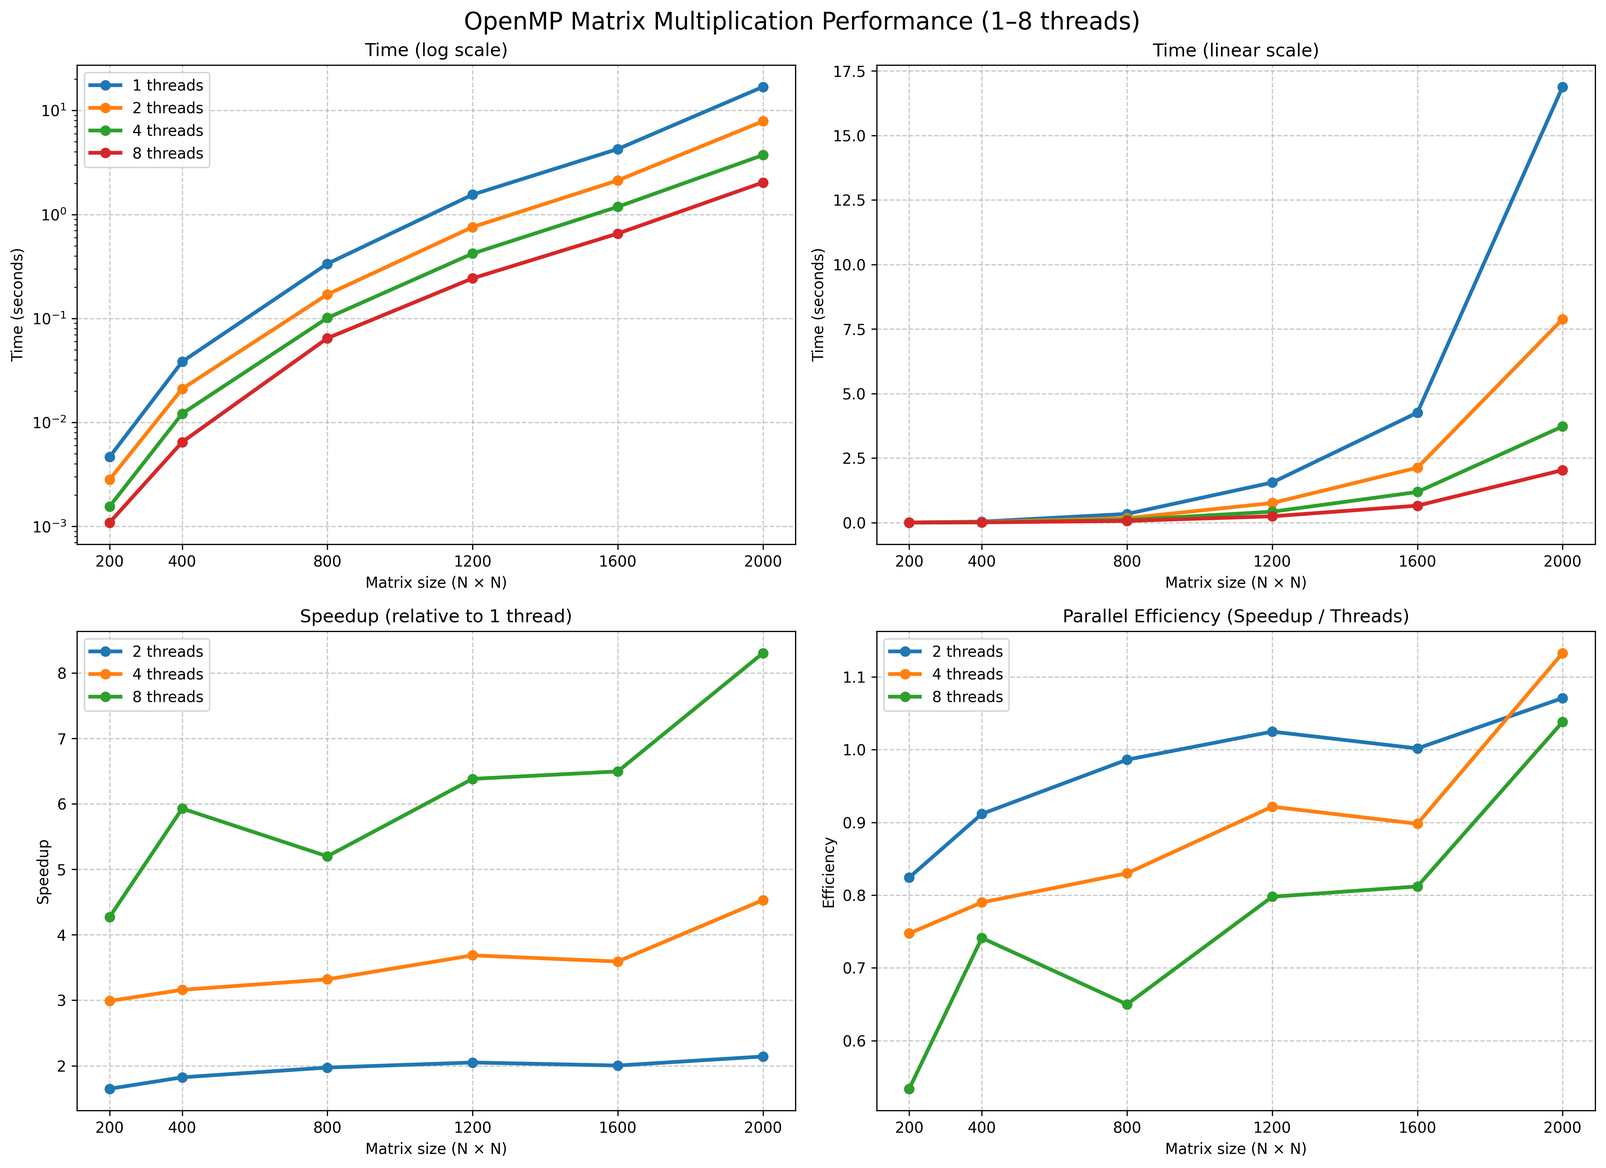
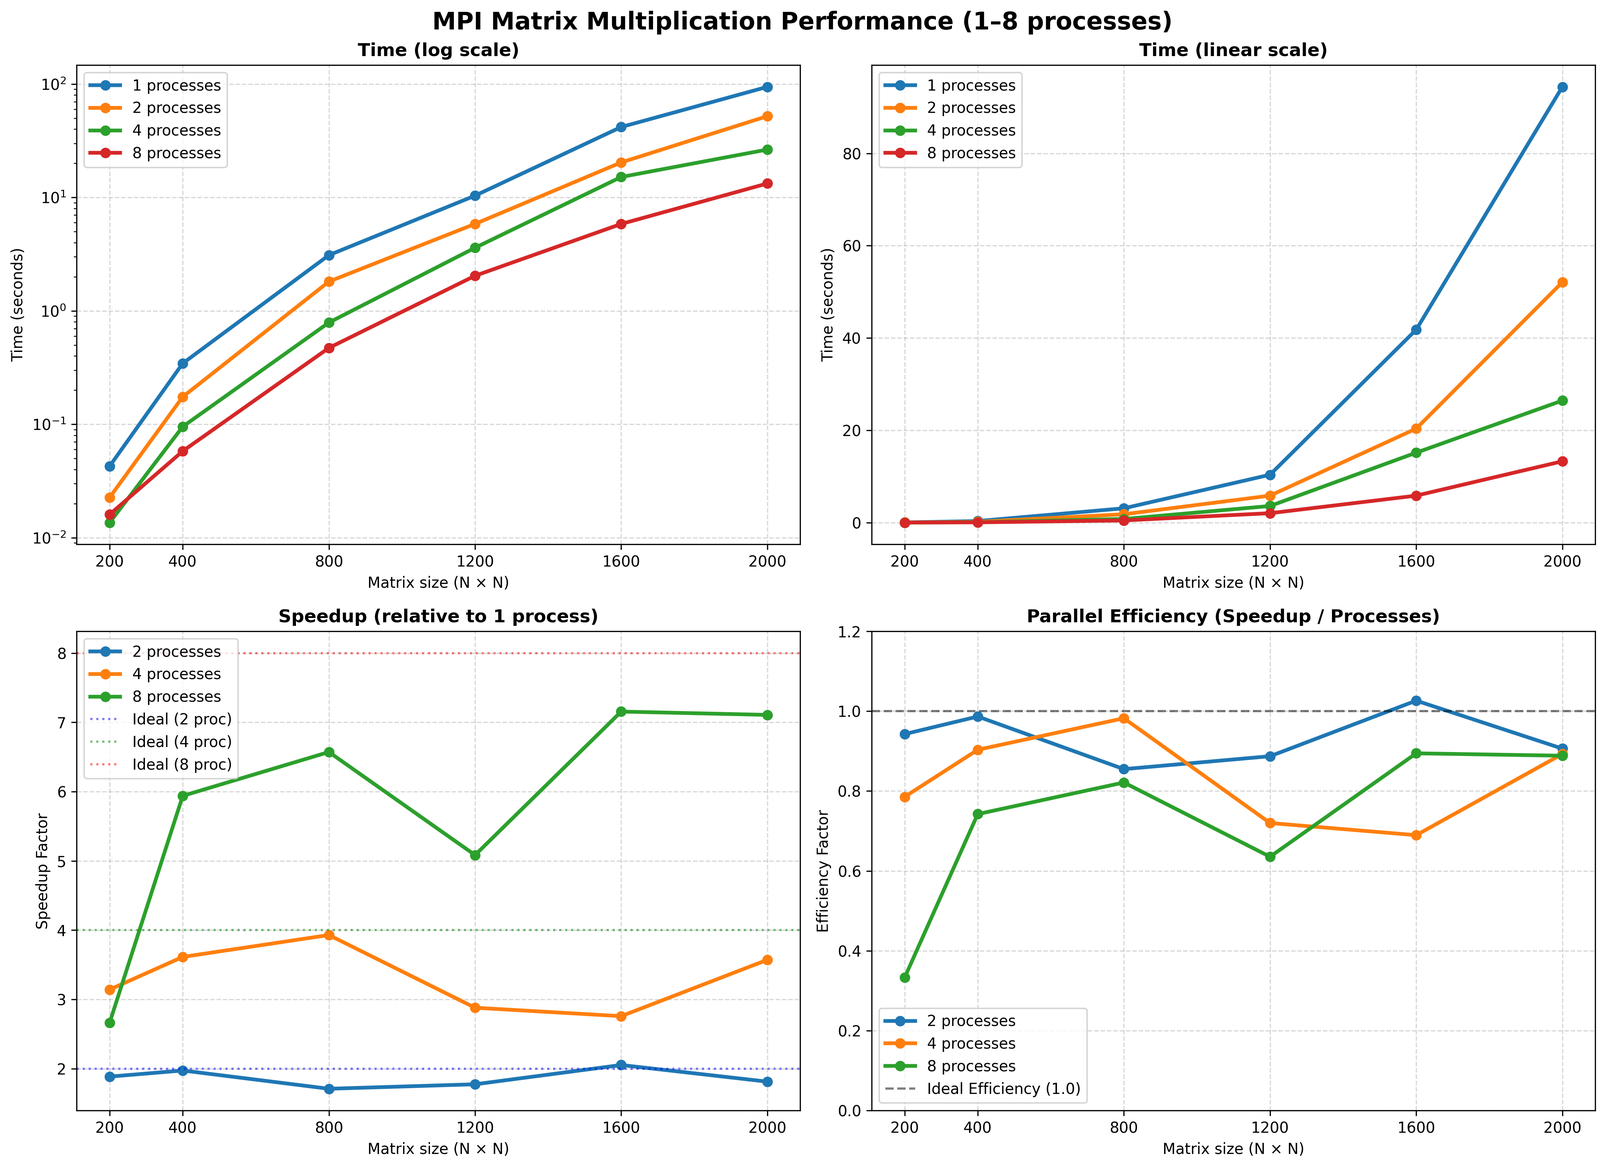
Add report

diff --git a/python/benchmark.py b/python/benchmark.py
@@ -1,62 +1,85 @@
 import os
 import matplotlib.pyplot as plt
 
-
+# Размеры матриц
 sizes = [200, 400, 800, 1200, 1600, 2000]
 
+# Твои реальные данные MPI (в миллисекундах)
 data_ms = {
-    1: [4.657, 38.4303, 335.977, 1552.19, 4260.47, 16881.6],
-    2: [2.825, 21.077, 170.344, 757.334, 2126.66, 7882.45],
-    4: [1.55767, 12.162, 101.193, 421.051, 1185.98, 3725.85],
-    8: [1.09033, 6.48133, 64.6177, 243.195, 655.875, 2032.9]
+    1: [42.7914, 344.719, 3100.35, 10372.9, 41797.0, 94404.8],
+    2: [22.6992, 174.702, 1813.39, 5846.17, 20362.6, 52088.2],
+    4: [13.6203, 95.4063, 789.067, 3602.15, 15155.4, 26434.8],
+    8: [16.0581, 58.0493, 471.811, 2040.47, 5841.39, 13282.7]
 }
 
-data = {k: [v/1000 for v in values] for k, values in data_ms.items()}
+# Переводим в секунды для графиков времени
+data = {k: [v / 1000 for v in values] for k, values in data_ms.items()}
 
 fig, axs = plt.subplots(2, 2, figsize=(15, 11))
-fig.suptitle('OpenMP Matrix Multiplication Performance (1–8 threads)', fontsize=16)
+fig.suptitle('MPI Matrix Multiplication Performance (1–8 processes)', fontsize=16, fontweight='bold')
 
-for threads, times in data.items():
-    axs[0, 0].plot(sizes, times, marker='o', linewidth=2.5, label=f'{threads} threads')
-axs[0, 0].set_title('Time (log scale)')
+
+for processes, times in data.items():
+    axs[0, 0].plot(sizes, times, marker='o', linewidth=2.5, label=f'{processes} processes')
+axs[0, 0].set_title('Time (log scale)', fontsize=12, fontweight='bold')
 axs[0, 0].set_ylabel('Time (seconds)')
 axs[0, 0].set_yscale('log')
-axs[0, 0].grid(True, linestyle='--', alpha=0.7)
+axs[0, 0].grid(True, linestyle='--', alpha=0.5)
 axs[0, 0].legend()
 
-for threads, times in data.items():
-    axs[0, 1].plot(sizes, times, marker='o', linewidth=2.5, label=f'{threads} threads')
-axs[0, 1].set_title('Time (linear scale)')
+for processes, times in data.items():
+    axs[0, 1].plot(sizes, times, marker='o', linewidth=2.5, label=f'{processes} processes')
+axs[0, 1].set_title('Time (linear scale)', fontsize=12, fontweight='bold')
 axs[0, 1].set_ylabel('Time (seconds)')
-axs[0, 1].grid(True, linestyle='--', alpha=0.7)
+axs[0, 1].grid(True, linestyle='--', alpha=0.5)
+axs[0, 1].legend()
 
-for threads, times in data.items():
-    if threads == 1:
+
+for processes, times in data.items():
+    if processes == 1:
         continue
     speedup = [data[1][i] / times[i] for i in range(len(sizes))]
-    axs[1, 0].plot(sizes, speedup, marker='o', linewidth=2.5, label=f'{threads} threads')
-axs[1, 0].set_title('Speedup (relative to 1 thread)')
-axs[1, 0].set_ylabel('Speedup')
-axs[1, 0].grid(True, linestyle='--', alpha=0.7)
+    axs[1, 0].plot(sizes, speedup, marker='o', linewidth=2.5, label=f'{processes} processes')
+
+# Добавляем линии идеального ускорения для справки
+axs[1, 0].axhline(y=2, color='blue', linestyle=':', alpha=0.5, label='Ideal (2 proc)')
+axs[1, 0].axhline(y=4, color='green', linestyle=':', alpha=0.5, label='Ideal (4 proc)')
+axs[1, 0].axhline(y=8, color='red', linestyle=':', alpha=0.5, label='Ideal (8 proc)')
+
+axs[1, 0].set_title('Speedup (relative to 1 process)', fontsize=12, fontweight='bold')
+axs[1, 0].set_ylabel('Speedup Factor')
+axs[1, 0].grid(True, linestyle='--', alpha=0.5)
 axs[1, 0].legend()
 
-for threads, times in data.items():
-    if threads == 1:
+
+for processes, times in data.items():
+    if processes == 1:
         continue
     speedup = [data[1][i] / times[i] for i in range(len(sizes))]
-    efficiency = [s / threads for s in speedup]
-    axs[1, 1].plot(sizes, efficiency, marker='o', linewidth=2.5, label=f'{threads} threads')
-axs[1, 1].set_title('Parallel Efficiency (Speedup / Threads)')
-axs[1, 1].set_ylabel('Efficiency')
-axs[1, 1].grid(True, linestyle='--', alpha=0.7)
+    efficiency = [s / processes for s in speedup]
+    axs[1, 1].plot(sizes, efficiency, marker='o', linewidth=2.5, label=f'{processes} processes')
+
+axs[1, 1].axhline(y=1.0, color='black', linestyle='--', alpha=0.5, label='Ideal Efficiency (1.0)')
+
+axs[1, 1].set_title('Parallel Efficiency (Speedup / Processes)', fontsize=12, fontweight='bold')
+axs[1, 1].set_ylabel('Efficiency Factor')
+axs[1, 1].set_ylim(0, 1.2) 
+axs[1, 1].grid(True, linestyle='--', alpha=0.5)
 axs[1, 1].legend()
 
+# Общие настройки осей
 for ax in axs.flat:
     ax.set_xlabel('Matrix size (N × N)')
     ax.set_xticks(sizes)
 
 plt.tight_layout()
+
+# Сохранение графика
 script_dir = os.path.dirname(os.path.abspath(__file__))
 save_path = os.path.join(script_dir, "..", "src", "benchmark_4plots.png")
 
+# Создаем папку src, если её нет
+os.makedirs(os.path.dirname(save_path), exist_ok=True)
+
 plt.savefig(save_path, dpi=300, bbox_inches='tight')
+print(f"Потрясающе! Графики успешно сохранены в: {os.path.abspath(save_path)}")

diff --git a/README.md b/README.md
@@ -1,70 +1,69 @@
-# Отчёт по лабораторной работе №2
+# Лабораторная работа: Параллельное перемножение матриц на MPI (C++)
 
-**Тема:** Параллельное умножение матриц с использованием OpenMP
+В этой работе я сделал программу на C++ для параллельного умножения квадратных матриц. Чтобы делить вычисления между процессами (ядрами), используется технология MPI. Также написал два вспомогательных скрипта на Python: один генерирует случайные матрицы, а второй проверяет, правильно ли C++ всё посчитал (через библиотеку NumPy).
 
-**Выполнил:** Роман Матушкин ИБАС 6213-100503D
+## 🛠 Как всё устроено и из чего состоит проект
 
----
+### 1. Генератор матриц (matrix_generator.py)
+* Скрипт создаёт файлы со случайными числами.
+* Ему через консоль передаются нужные размеры (строки, столбцы) и диапазон чисел (минимум и максимум).
+* Чтобы файлы разных тестов не перезаписывали друг друга, в название файла подставляется размер матрицы (например, `matrix_400_1.txt`).
 
-## Цель работы
+### 2. Главный код (main.cpp)
+* `read_matrix()` — Считывает матрицы из файлов. Чтобы программа не зависала и процессы не конфликтовали при одновременном чтении, файлы читает только самый первый процесс (`rank 0`).
+* `multiply_matrix()` — Функция, где происходит само умножение матриц.
+* `run_single_test()` — Запускает один тест, засекает время работы через `std::chrono` и в конце вызывает Python-скрипт для проверки результатов.
+* `log_result()` — Записывает полученное среднее время в текстовый файл `src/measurements.txt`, чтобы потом по нему строить графики.
 
-Доработать программу из первой лабораторной работы так, чтобы умножение матриц выполнялось параллельно с помощью OpenMP. Провести эксперименты с разным количеством потоков и разными размерами матриц и посмотреть, как ускоряется программа.
+### 3. Как работает параллельность в MPI
+* Вся первая матрица делится по строкам между процессами. Я написал код так, что если размер матрицы не делится ровно на количество ядер, остаток строк распределяется автоматически, и программа не падает.
+* Каждый процесс считает свою часть, переводит результат в одномерный массив (разворачивает его в строку) и отправляет обратно.
+* Для сборки всех кусков обратно в одну большую матрицу на процессе `rank 0` используется функция `MPI_Gatherv`.
 
----
-
-## Описание файлов проекта
-
-- **matrix_generator.py** — создаёт случайные матрицы и сохраняет их в файлы.
-- **main.cpp** — основная программа. Выполняет умножение матриц с OpenMP и автоматически запускает все эксперименты.
-- **verification.py** — проверяет, правильно ли программа умножила матрицы.
-- **benchmark.py** — строит графики по результатам экспериментов.
-- **src/measurements.txt** — файл с результатами замеров времени.
-
----
-
-## Проведённые эксперименты
-
-Эксперименты проводились для матриц размеров:  
-200 × 200, 400 × 400, 800 × 800, 1200 × 1200, 1600 × 1600, 2000 × 2000
-Для каждого размера тестировалось 4 варианта количества потоков: 1, 2, 4, 8.  
-Каждый тест запускался 3 раза, и бралось среднее время.
-Замеры призводились на Ryzen 7 5700x
+### 4. Скрипт проверки результатов (verification.py)
+* Нужен для автоматической проверки. Он берёт те же исходные файлы, перемножает их встроенным в NumPy методом (через оператор `@`) и сравнивает с тем, что насчитал наш код на C++.
+* Чтобы на больших матрицах числа не вылетали за границы, в Python принудительно используется тип `int64`. Если всё совпало, скрипт выводит `OK`, если нет — пишет `ERROR`.
 
 ---
 
-## Результаты экспериментов
+## 📊 Результаты замеров времени
 
-### Среднее время выполнения (в миллисекундах)
+Тестировал на квадратных матрицах со случайными числами от -25 до 25. Каждый тест запускал по 3 раза, в таблицы записал среднее время.
 
-| Размер матрицы | 1 поток    | 2 потока   | 4 потока   | 8 потоков  |
-|----------------|------------|------------|------------|------------|
-| 200            | 4.657      | 2.825      | 1.558      | 1.090      |
-| 400            | 38.430     | 21.077     | 12.162     | 6.481      |
-| 800            | 335.977    | 170.344    | 101.193    | 64.618     |
-| 1200           | 1552.19    | 757.334    | 421.051    | 243.195    |
-| 1600           | 4260.47    | 2126.66    | 1185.98    | 655.875    |
-| 2000           | 16881.6    | 7882.45    | 3725.85    | 2032.9     |
+### Время работы (в миллисекундах)
+
+| Размер матрицы | 1 процесс | 2 процесса | 4 процесса | 8 процессов | Проверка (NumPy) |
+| :--- | :---: | :---: | :---: | :---: | :---: |
+| **200 x 200** | 42.79 мс | 22.70 мс | 13.62 мс | 16.06 мс | `Успешно (PASSED)` |
+| **400 x 400** | 344.72 мс | 174.70 мс | 95.41 мс | 58.05 мс | `Успешно (PASSED)` |
+| **800 x 800** | 3100.35 мс | 1813.39 мс | 789.07 мс | 471.81 мс | `Успешно (PASSED)` |
+| **1200 x 1200** | 10372.90 мс | 5846.17 мс | 3602.15 мс | 2040.47 мс | `Успешно (PASSED)` |
+| **1600 x 1600** | 41797.00 мс | 20362.60 мс | 15155.40 мс | 5841.39 мс | `Успешно (PASSED)` |
+| **2000 x 2000** | 94404.80 мс | 52088.20 мс | 26434.80 мс | 13282.70 мс | `Успешно (PASSED)` |
+
+### Во сколько раз быстрее (Ускорение)
+
+| Размер матрицы | На 2 процессах | На 4 процессах | На 8 процессах |
+| :--- | :---: | :---: | :---: |
+| **200 x 200** | в 1.89 раз | в 3.14 раз | в 2.66 раз |
+| **400 x 400** | в 1.97 раз | в 3.61 раз | в 5.94 раз |
+| **800 x 800** | в 1.71 раз | в 3.93 раз | в 6.57 раз |
+| **1200 x 1200** | в 1.77 раз | в 2.88 раз | в 5.08 раз |
+| **1600 x 1600** | в 2.05 раз | в 2.76 раз | в 7.16 раз |
+| **2000 x 2000** | в 1.81 раз | в 3.57 раз | в 7.11 раз |
 
 ---
 
-## Графическая визуализация
+## 🔍 Выводы по работе
 
-![Результаты экспериментов](src/benchmark_4plots.png)
+1. **Маленькие матрицы параллелить нет смысла.** На размере 200х200 при запуске на 8 процессах время стало хуже, чем на 4 процессах (выросло с 13.62 до 16.06 мс). Так получается, потому что ядра тратят слишком много времени на пересылку сообщений и синхронизацию через MPI. На мелких задачах эти накладные расходы съедают весь выигрыш.
+2. **На больших размерах параллельность работает отлично.** Чем больше матрица, тем заметнее польза от кучи ядер. На максимальном размере 2000х2000 программа на 8 процессах отработала почти в 7.1 раз быстрее, чем в один поток.
+3. **Проблема с переполнением (обычный int не подошел).** Сначала тесты на больших матрицах (больше 400) выдавали ошибку верификации. Оказалось, что при умножении строк на столбцы итоговые суммы вылетали за лимит обычного 32-битного `int` (больше 2 миллиардов). Когда заменил типы на 64-битные (`long long` в C++ и `int64` в Python), баг ушел, и всё стало считаться правильно.
 
 ---
 
-## Анализ результатов
+## 📈 Графики
 
-- Программа стала работать заметно быстрее при использовании нескольких потоков.
-- Чем больше размер матрицы, тем лучше работает параллелизация.
-- Самое хорошее ускорение получилось на матрице 2000×2000 — почти в 8.3 раза быстрее, чем с одним потоком.
-- На маленьких матрицах (200×200) ускорение меньше, потому что накладной расход от создания потоков довольно большой.
----
+По сохраненным логам построил графики времени работы, ускорения и эффективности:
 
-## Вывод
-
-В лабораторной работе я успешно добавил поддержку OpenMP в программу умножения матриц. 
-
-Эксперименты показали, что OpenMP хорошо ускоряет задачу, особенно при больших размерах матриц. Автоматический запуск всех тестов внутри main.cpp сделал проведение экспериментов удобным.
-
-В будущем можно ещё сильнее ускорить программу, если перейти на одномерные массивы для хранения матриц.
+![Графики производительности](src/benchmark_4plots.png)
